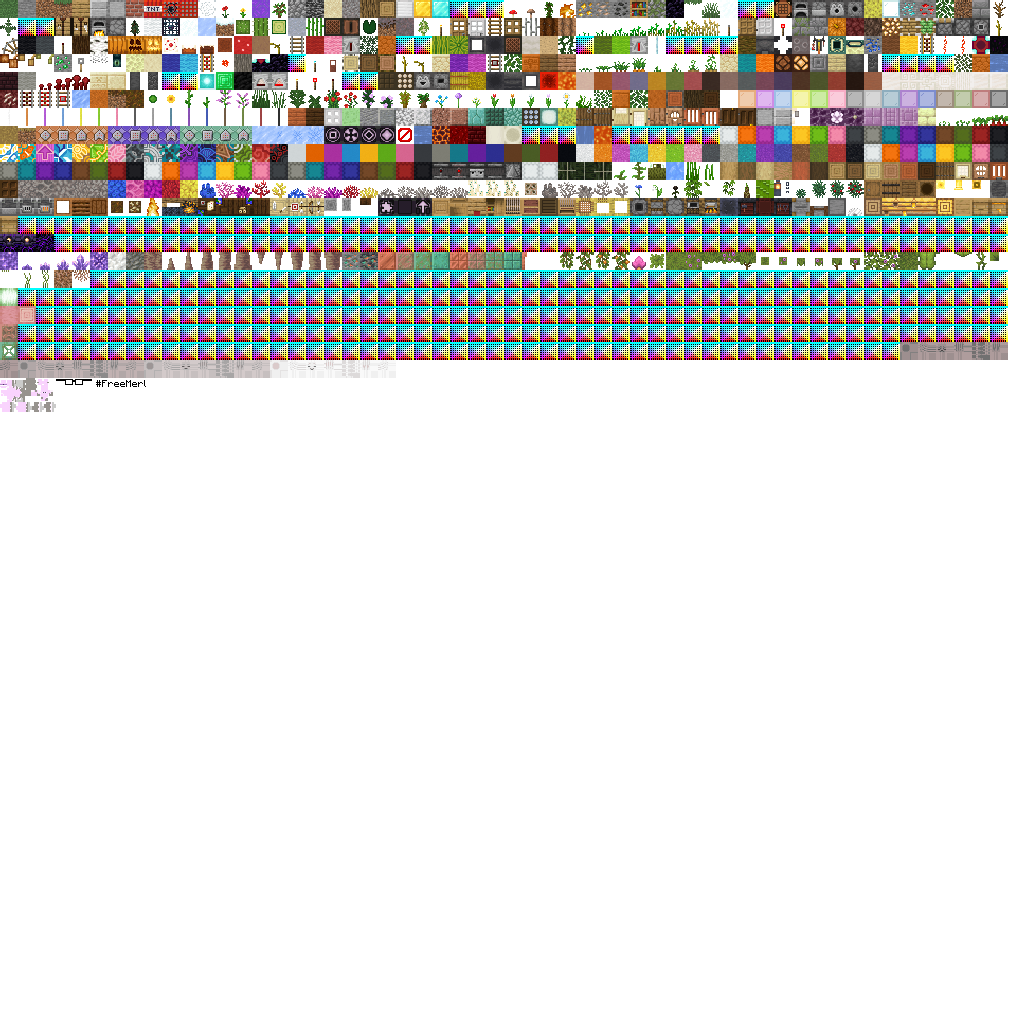
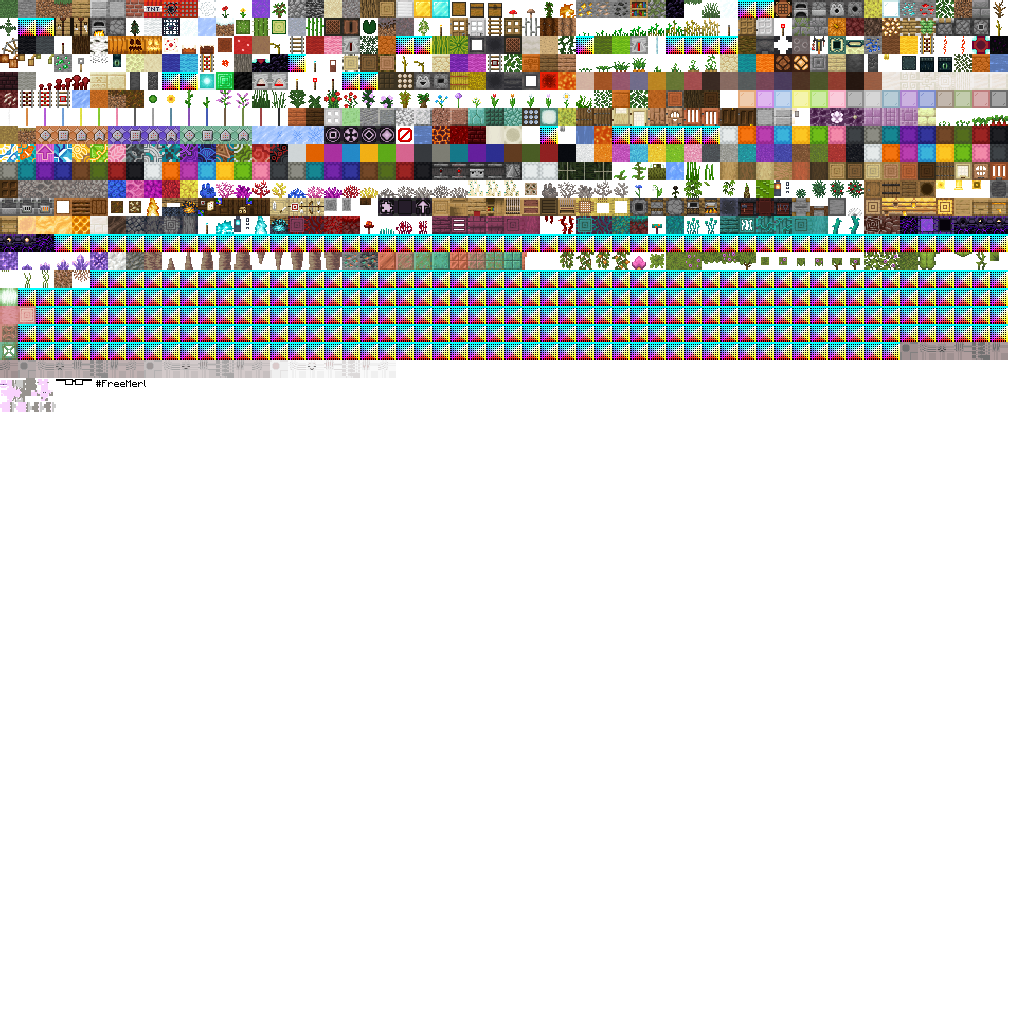
more textures + chest support

diff --git a/generate.js b/generate.js
@@ -1,5 +1,4 @@
 import fs from "fs"
-import path from "path"
 import { Canvas, loadImage } from "skia-canvas"
 
 const sourceDir = "C:/Users/ewanh/AppData/Roaming/.minecraft/resourcepacks/1.21.10/assets/minecraft/textures"
@@ -28,11 +27,31 @@ let x = 0
 let y = 0
 
 for (let name of names) {
-  let img
+  let texturePath
   if (name.includes("/")) {
-    img = await loadImage(path.join(sourceDir, name + ".png"))
+    texturePath = `${sourceDir}/${name}.png`
   } else {
-    img = await loadImage(path.join(sourceDir, `block/${name}.png`))
+    texturePath = `${sourceDir}/block/${name}.png`
+  }
+
+  if (!fs.existsSync(texturePath)) {
+    x++
+    if (x >= cols) {
+      x = 0
+      y++
+    }
+    continue
+  }
+
+  let img
+  if (
+    name === "air" ||
+    name === "entity/chest/normal" ||
+    name === "entity/chest/ender"
+  ) {
+    img = new Canvas(16, 16)
+  } else {
+    img = await loadImage(texturePath)
   }
 
   const dx = x * SLOT
@@ -78,6 +97,42 @@ for (let name of names) {
   }
 }
 
-ctx.drawImage(canvas, 684, 0, 18, 18, 54, 0, 18, 18)
+ctx.drawImage(canvas, 18 * 38, 0, 18, 18, 18 * 3, 0, 18, 18)
+
+if (fs.existsSync(`${sourceDir}/entity/chest/normal.png`)) {
+  const img = await loadImage(`${sourceDir}/entity/chest/normal.png`)
+  const canvas2 = new Canvas(img.width, img.height)
+  const ctx2 = canvas2.getContext("2d")
+  ctx2.translate(img.width / 2, img.height / 2)
+  ctx2.rotate(Math.PI)
+  ctx2.drawImage(img, -img.width / 2, -img.height / 2)
+  ctx.drawImage(canvas2, 22, 50, 14, 14, 18 * 25 + 2, 2, 14, 14)
+  ctx.drawImage(canvas2, 22, 22, 14, 9, 18 * 26 + 2, 8, 14, 9)
+  ctx.drawImage(canvas2, 22, 30, 14, 1, 18 * 26 + 2, 17, 14, 1)
+  ctx.drawImage(canvas2, 22, 45, 14, 5, 18 * 26 + 2, 3, 14, 5)
+  ctx.drawImage(canvas2, 8, 22, 14, 9, 18 * 27 + 2, 8, 14, 9)
+  ctx.drawImage(canvas2, 8, 30, 14, 1, 18 * 27 + 2, 17, 14, 1)
+  ctx.drawImage(canvas2, 8, 45, 14, 5, 18 * 27 + 2, 3, 14, 5)
+  ctx.drawImage(canvas2, 58, 59, 5, 5, 18 * 31 + 2, 18 * 7 + 1, 5, 5)
+  ctx.drawImage(canvas2, 58, 59, 5, 1, 18 * 31 + 2, 18 * 7, 5, 1)
+}
+
+if (fs.existsSync(`${sourceDir}/entity/chest/ender.png`)) {
+  const img = await loadImage(`${sourceDir}/entity/chest/ender.png`)
+  const canvas2 = new Canvas(img.width, img.height)
+  const ctx2 = canvas2.getContext("2d")
+  ctx2.translate(img.width / 2, img.height / 2)
+  ctx2.rotate(Math.PI)
+  ctx2.drawImage(img, -img.width / 2, -img.height / 2)
+  ctx.drawImage(canvas2, 22, 50, 14, 14, 18 * 50 + 2, 18 * 3 + 2, 14, 14)
+  ctx.drawImage(canvas2, 22, 22, 14, 9, 18 * 51 + 2, 18 * 3 + 8, 14, 9)
+  ctx.drawImage(canvas2, 22, 30, 14, 1, 18 * 51 + 2, 18 * 3 + 17, 14, 1)
+  ctx.drawImage(canvas2, 22, 45, 14, 5, 18 * 51 + 2, 18 * 3 + 3, 14, 5)
+  ctx.drawImage(canvas2, 8, 22, 14, 9, 18 * 52 + 2, 18 * 3 + 8, 14, 9)
+  ctx.drawImage(canvas2, 8, 30, 14, 1, 18 * 52 + 2, 18 * 3 + 17, 14, 1)
+  ctx.drawImage(canvas2, 8, 45, 14, 5, 18 * 52 + 2, 18 * 3 + 3, 14, 5)
+  ctx.drawImage(canvas2, 58, 59, 5, 5, 18 * 49 + 2, 18 * 3 + 1, 5, 5)
+  ctx.drawImage(canvas2, 58, 59, 5, 1, 18 * 49 + 2, 18 * 3, 5, 1)
+}
 
 await canvas.toFile(outPath)
